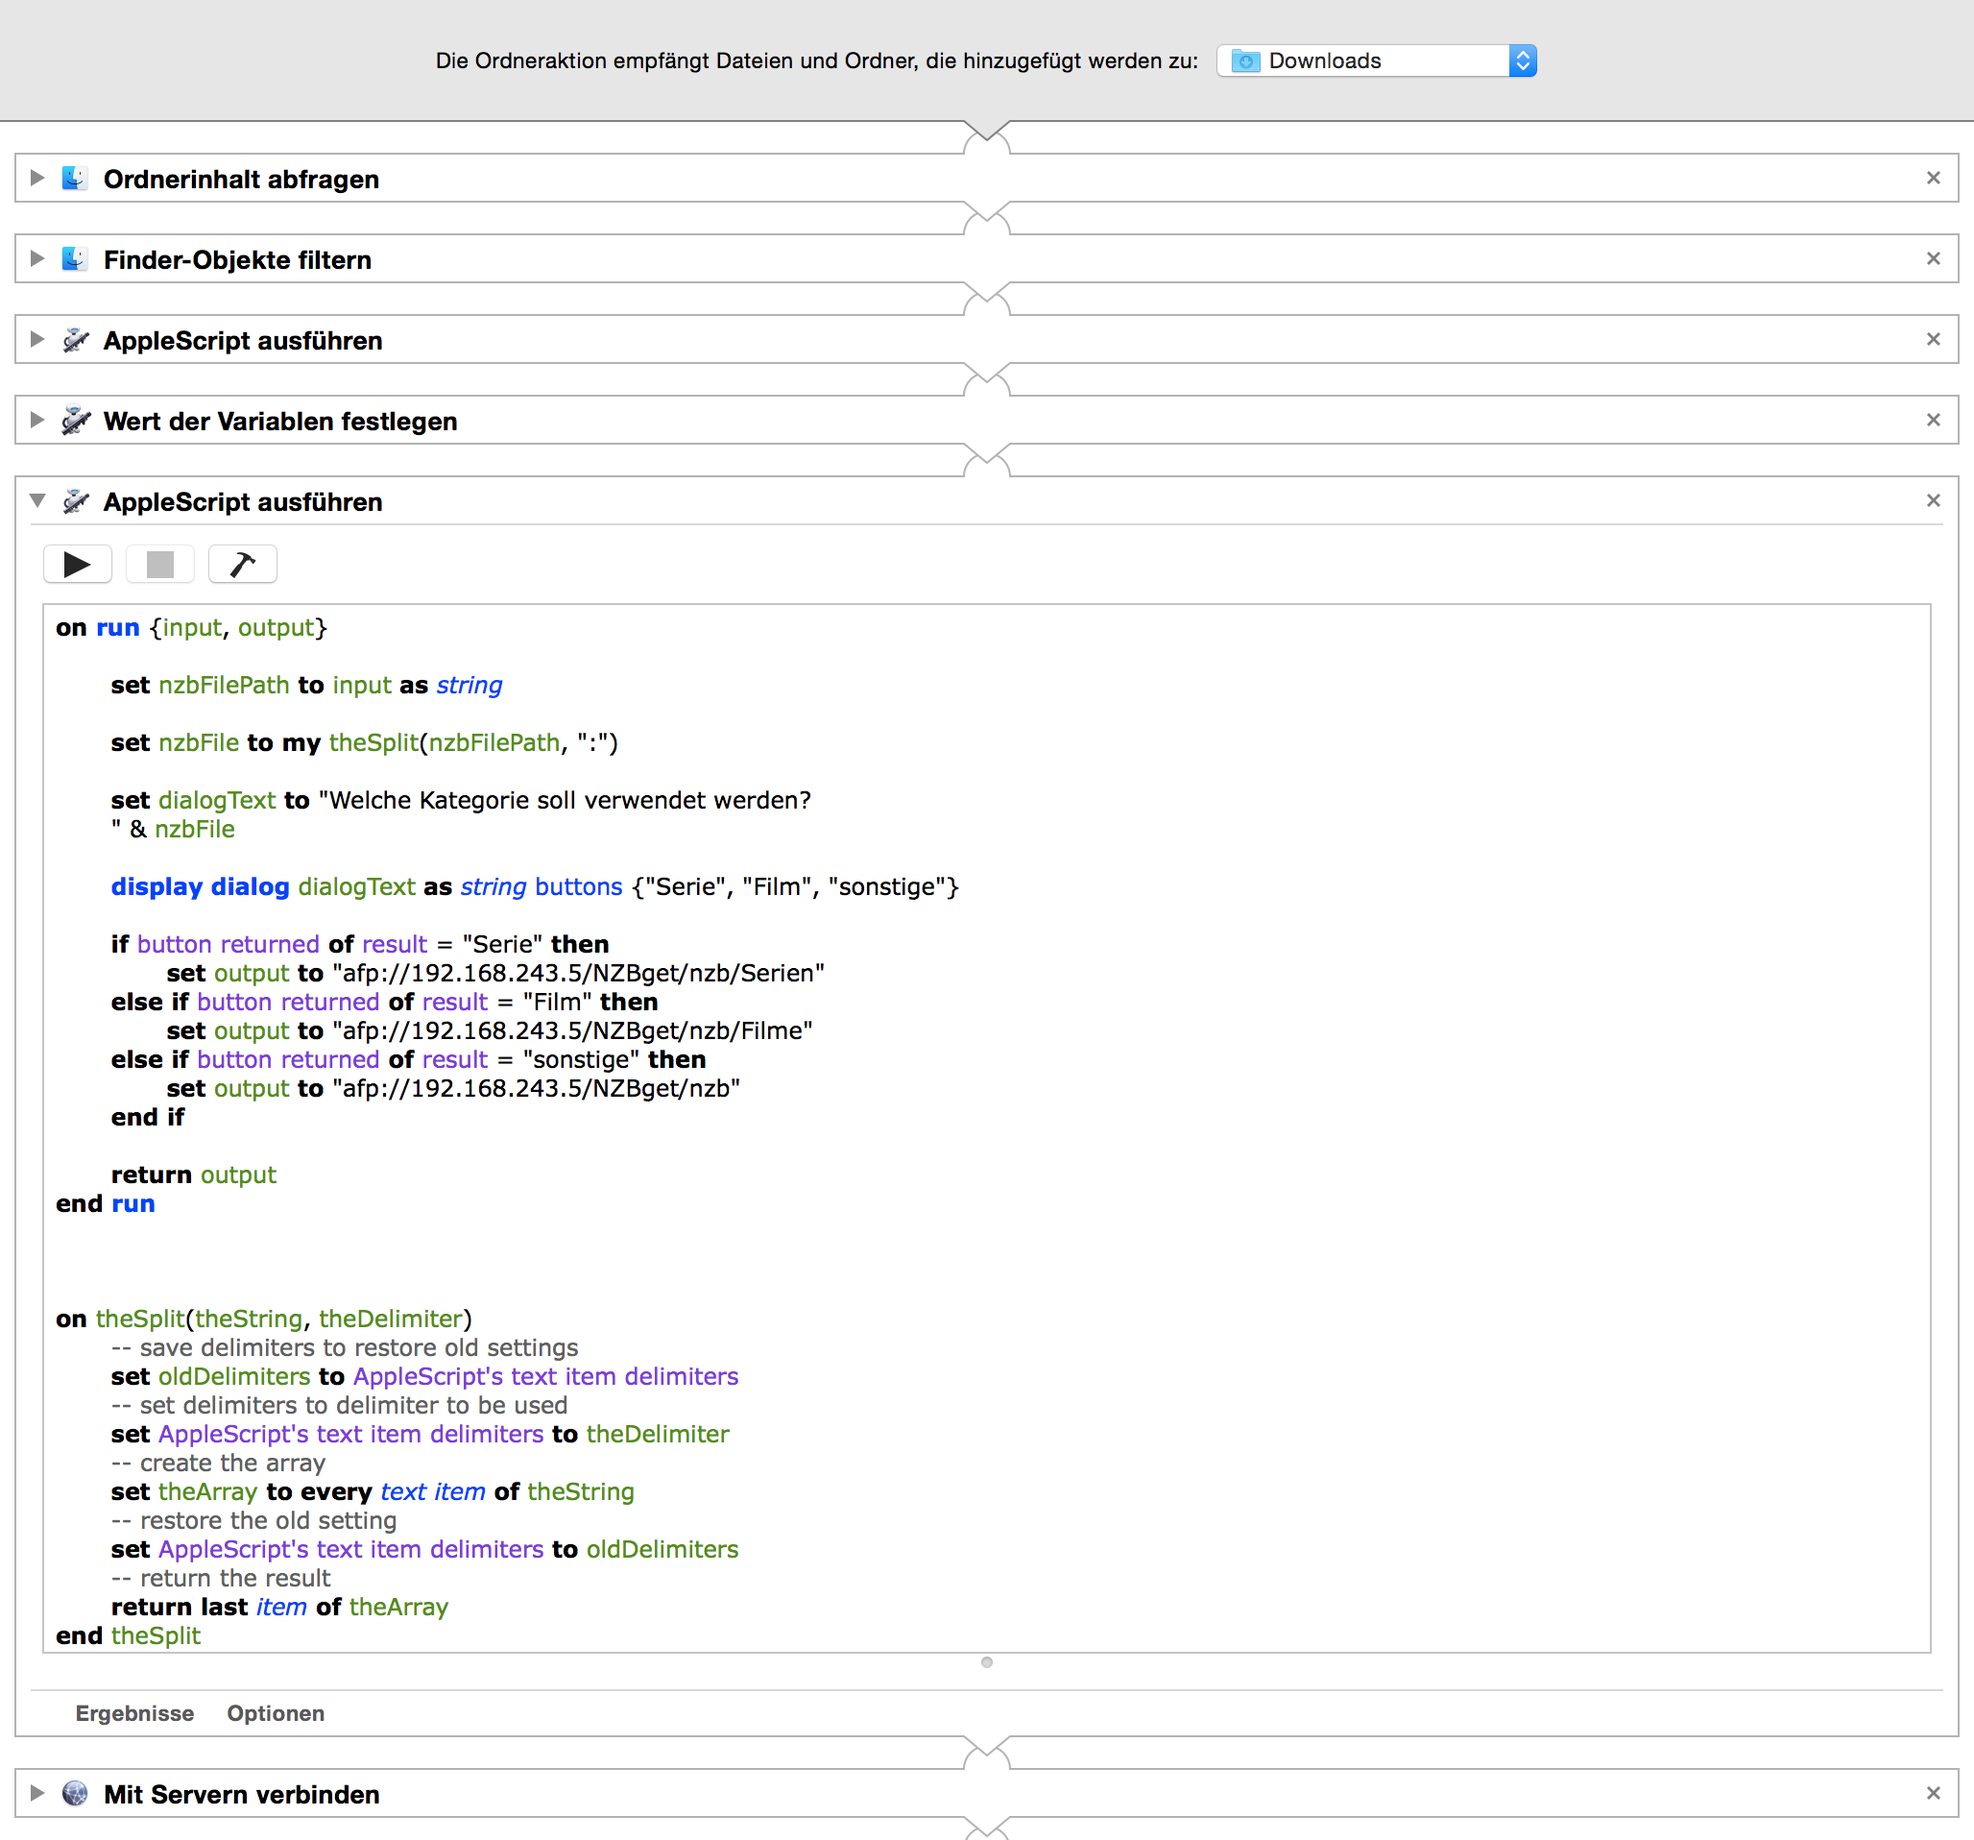
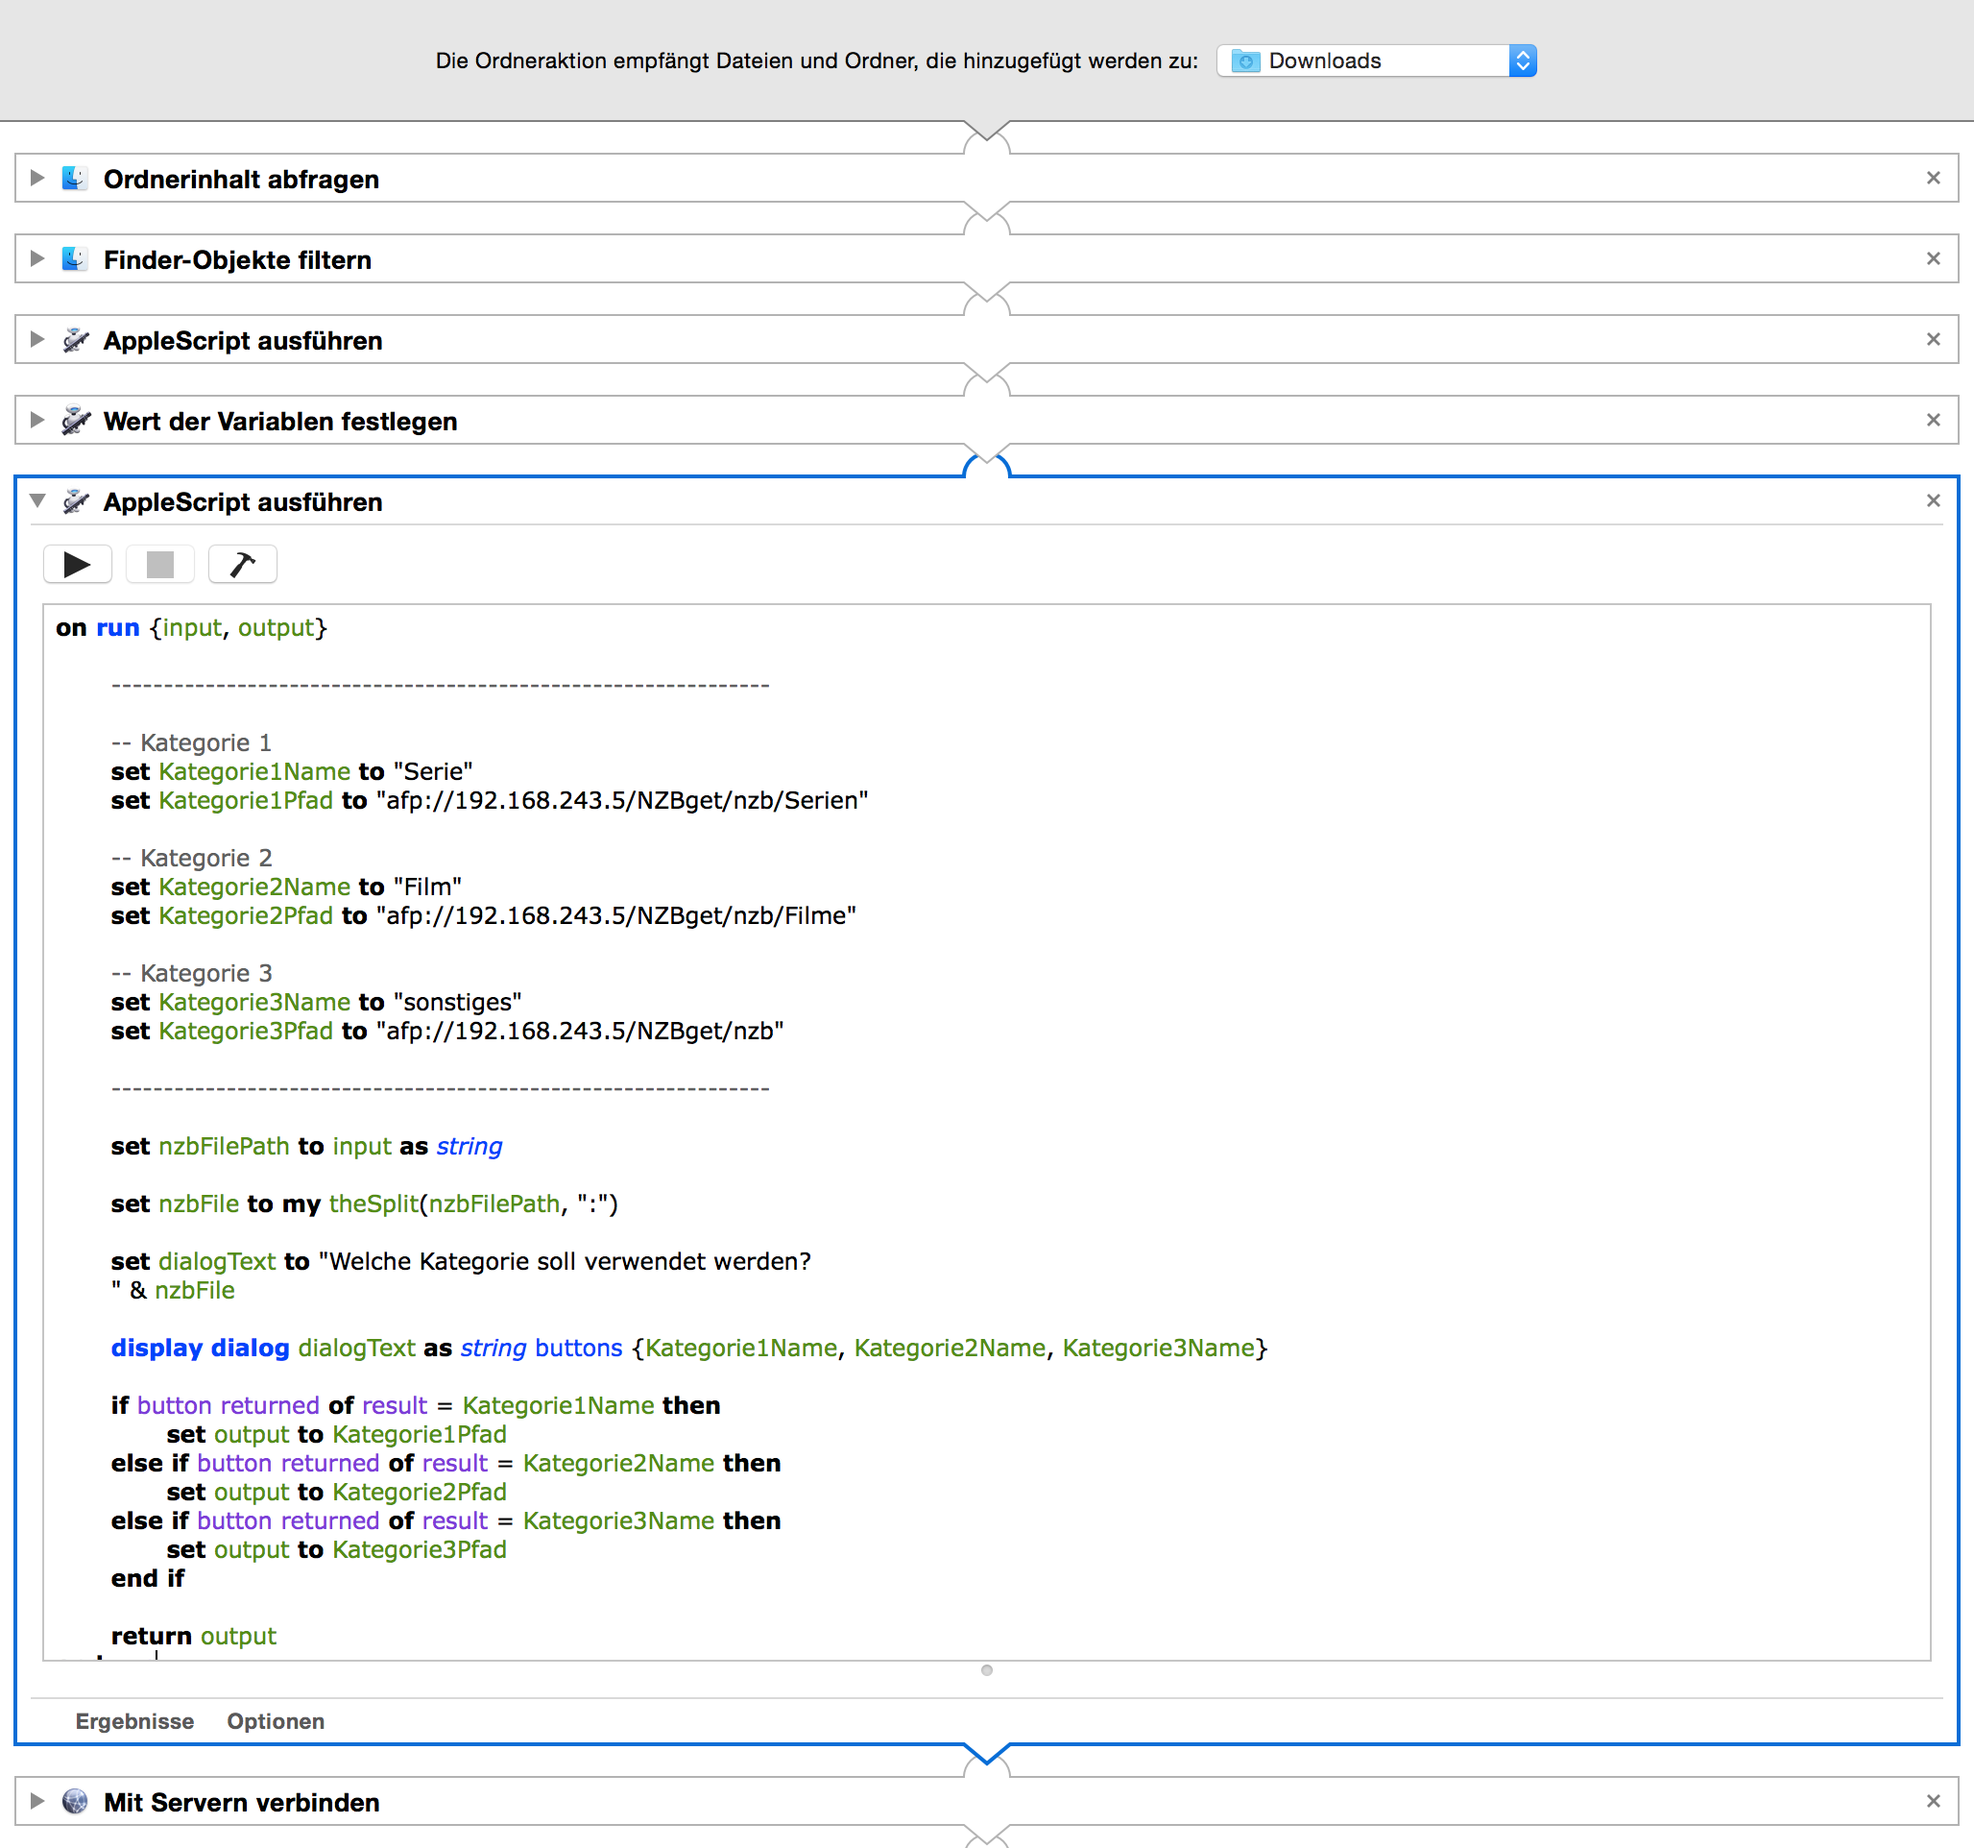
Vereinfachte Parametrierung des Scriptes

diff --git a/README.md b/README.md
@@ -35,54 +35,8 @@ ist die Anzahl der Kategorien auf maximal 3 Stück beschränkt.
 
 **Notwendige Anpassungen**
 
-Im fünften Abschnitt (AppleScript ausführen) müssen folgende Änderungen durchgeführt werden:
-
-```
-on run {input, output}
-	
-	set nzbFilePath to input as string
-	
-	set nzbFile to my theSplit(nzbFilePath, ":")
-	
-	set dialogText to "Welche Kategorie soll verwendet werden?
-	" & nzbFile
-	
-	display dialog dialogText as string buttons {"Serie", "Film", "sonstige"}
-	
-	if button returned of result = "Serie" then
-		set output to "afp://192.168.243.5/NZBget/nzb/Serien"
-	else if button returned of result = "Film" then
-		set output to "afp://192.168.243.5/NZBget/nzb/Filme"
-	else if button returned of result = "sonstige" then
-		set output to "afp://192.168.243.5/NZBget/nzb"
-	end if
-	
-	return output
-end run
-
-
-
-on theSplit(theString, theDelimiter)
-	-- save delimiters to restore old settings
-	set oldDelimiters to AppleScript's text item delimiters
-	-- set delimiters to delimiter to be used
-	set AppleScript's text item delimiters to theDelimiter
-	-- create the array
-	set theArray to every text item of theString
-	-- restore the old setting
-	set AppleScript's text item delimiters to oldDelimiters
-	-- return the result
-	return last item of theArray
-end theSplit
-```
-
-- Zeile 10: Kategorienamen für die Kategorien 1, 2 und 3
-- Zeile 12: Name der Kategorie 1 (muss gleich dem auf Zeile 10 sein)
-- Zeile 13: Zielpfad für den Unterordner im Blackhole der Kategorie 1
-- Zeile 14: Name der Kategorie 2 (muss gleich dem auf Zeile 10 sein)
-- Zeile 15: Zielpfad für den Unterordner im Blackhole der Kategorie 2
-- Zeile 16: Name der Kategorie 3 (muss gleich dem auf Zeile 10 sein)
-- Zeile 17: Zielpfad für den Unterordner im Blackhole der Kategorie 3
+Im fünften Abschnitt (AppleScript ausführen) müssen zwischen den Zeilen 5 und 15 die Kategorien entsprechend dem Bedarf
+angepasst werden.
 
 **Bekannte Probleme**
 
